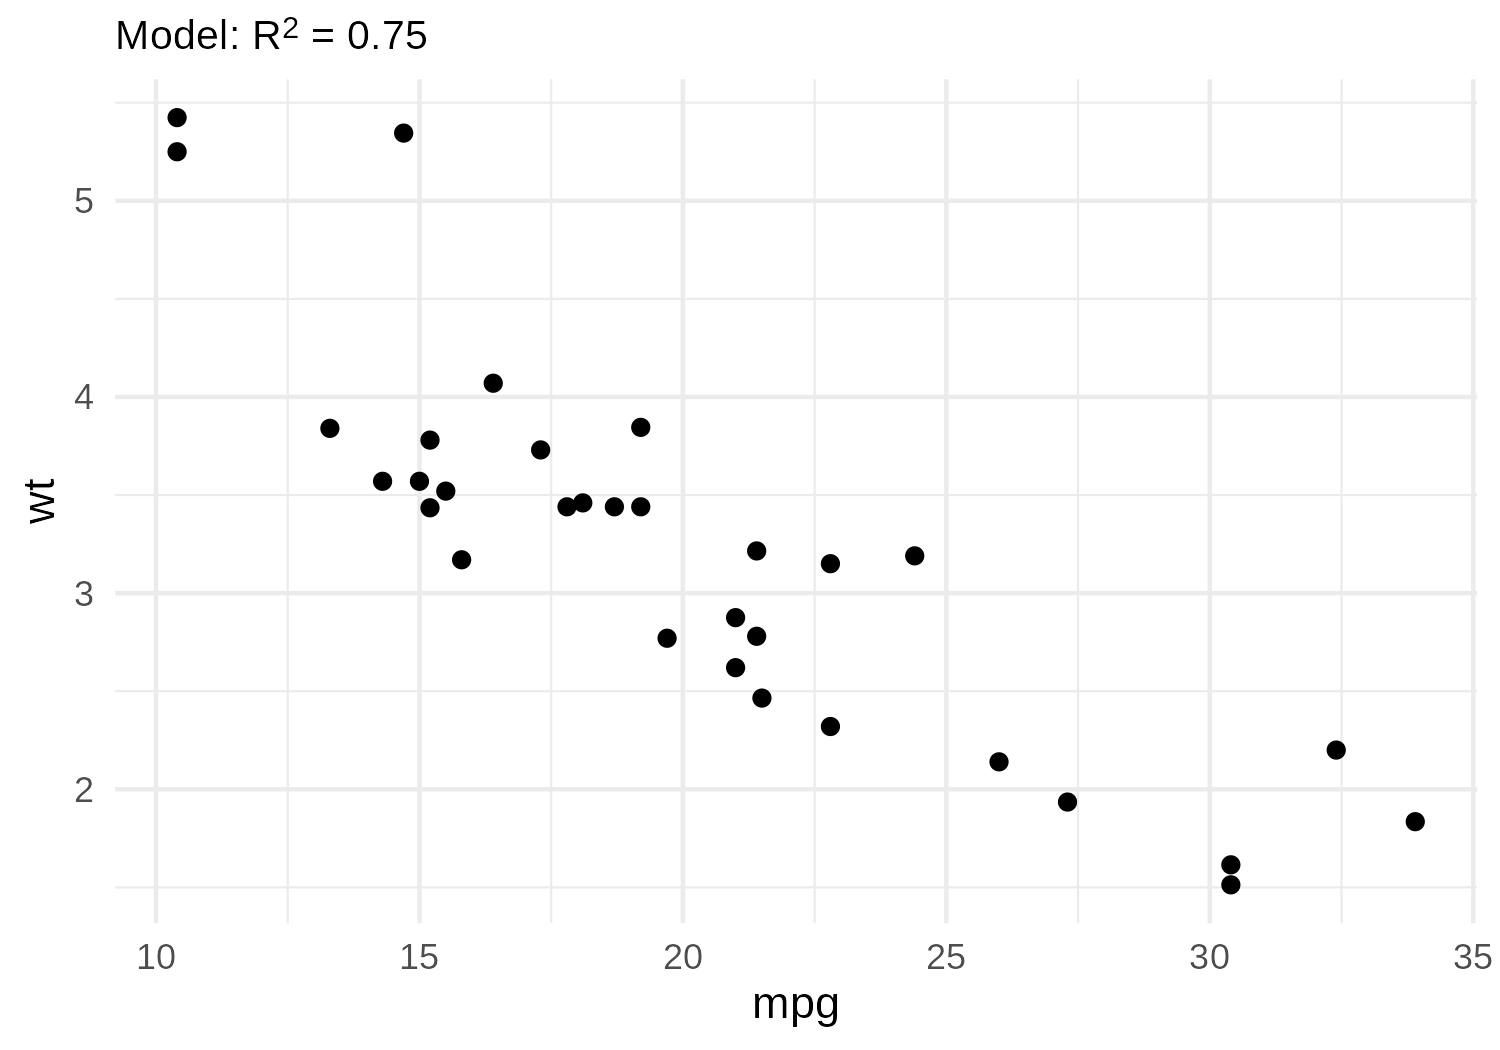
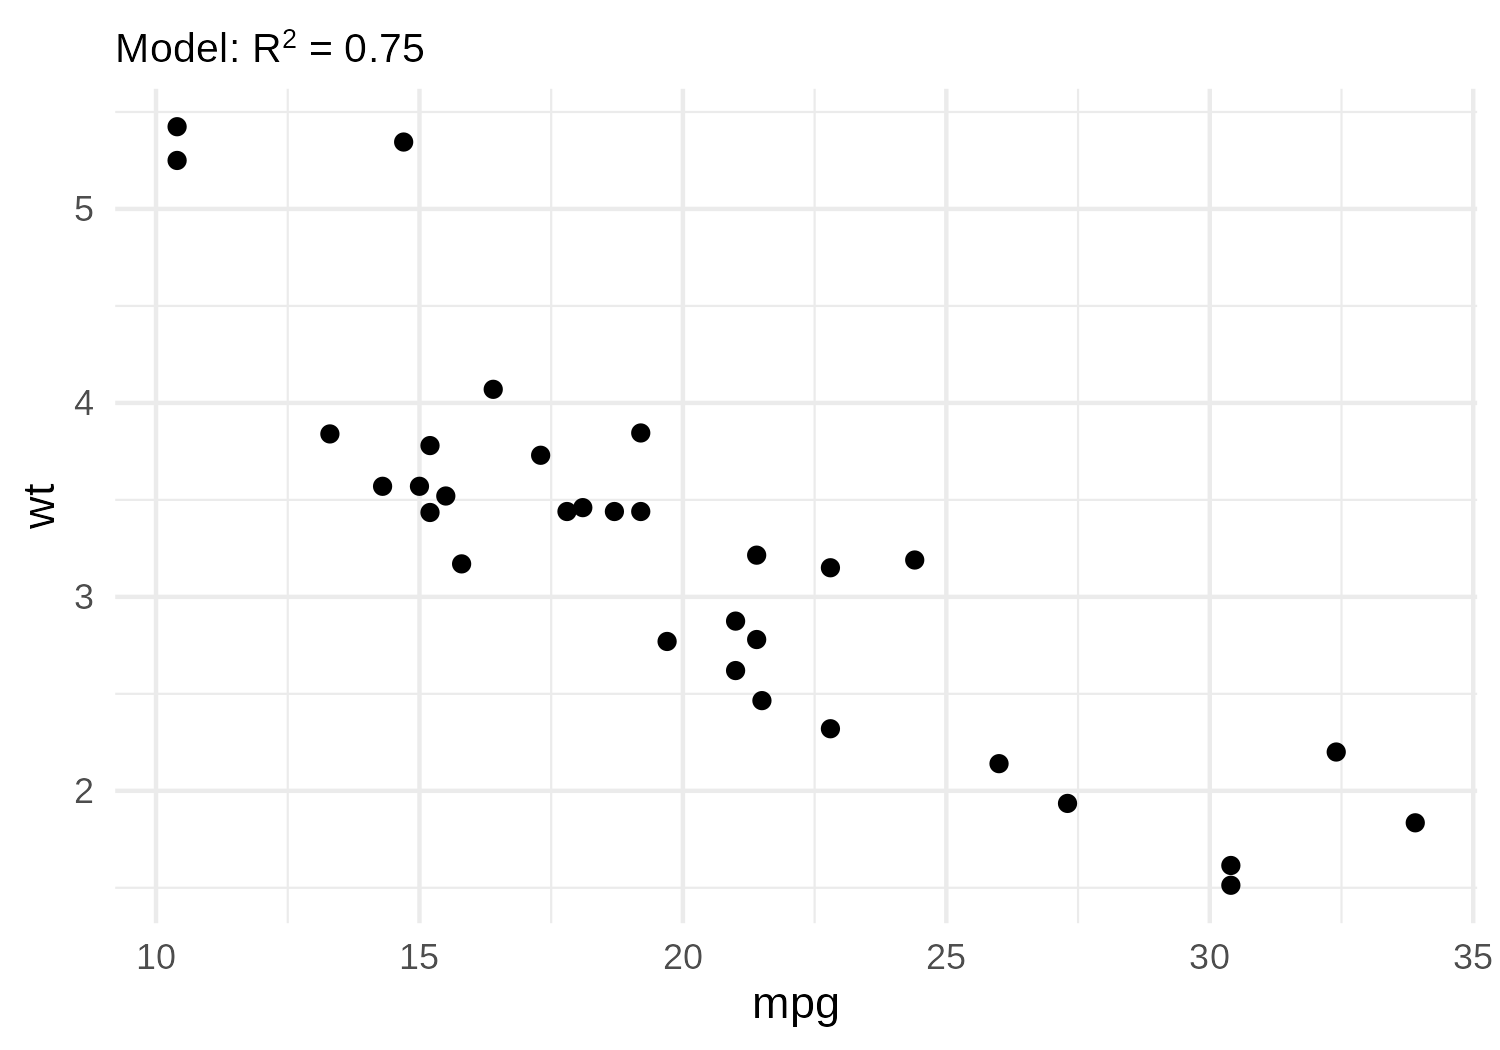
docs: size the images of the README in pixels
out.width = "100%" made each image as wide as the page: on CRAN, whose
page has no maximum width, the images filled the browser window. They
are now 96 pixels per inch of figure (672px for a 7 inches figure);
GitHub still shrinks wider images to its column. The figures are
rendered again with the current version.

diff --git a/README.md b/README.md
@@ -15,7 +15,7 @@ and ‘flextable’ tables.
 
 ‘munch’ lets you produce this annotated graphic:
 
-<img src="man/figures/README-unnamed-chunk-2-1.png" alt="" width="100%" />
+<img src="man/figures/README-unnamed-chunk-2-1.png" alt="" width="672px" />
 
 The title, subtitle, caption and axis labels above are all built with
 `element_chunks()` and ‘flextable’ paragraph objects, bold, italic,
@@ -70,7 +70,7 @@ ggplot(mtcars, aes(mpg, wt)) +
  theme(plot.title = element_md(size = 16))
 ```
 
-<img src="man/figures/README-ggplot-example-1.png" alt="" width="100%" />
+<img src="man/figures/README-ggplot-example-1.png" alt="" width="480px" />
 
 For advanced formatting (superscripts, subscripts, colors), use
 `element_chunks()` with ‘flextable’ paragraph objects:
@@ -85,7 +85,7 @@ ggplot(mtcars, aes(mpg, wt)) +
  theme(plot.title = element_chunks(title_chunks))
 ```
 
-<img src="man/figures/README-element-chunks-example-1.png" alt="" width="100%" />
+<img src="man/figures/README-element-chunks-example-1.png" alt="" width="480px" />
 
 #### Syntax comparison
 
@@ -136,7 +136,7 @@ wrap_plots(p1, p2) +
   )
 ```
 
-<img src="man/figures/README-patchwork-example-1.png" alt="" width="100%" />
+<img src="man/figures/README-patchwork-example-1.png" alt="" width="672px" />
 
 For plain markdown text, pass the content as a string and use
 `element_md()` in the `theme` argument, as in regular ggplot2 theming:
@@ -153,7 +153,7 @@ wrap_plots(p1, p2) +
   )
 ```
 
-<img src="man/figures/README-patchwork-example-md-1.png" alt="" width="100%" />
+<img src="man/figures/README-patchwork-example-md-1.png" alt="" width="672px" />
 
 The caption auto-wraps to the full figure width at render time, so it
 works correctly regardless of output size. `title`, `subtitle`, and
@@ -171,7 +171,7 @@ ft <- mk_par(ft, j = 1, part = "header",
 autofit(ft)
 ```
 
-<img src="man/figures/README-flextable-example-1.png" alt="" width="100%" />
+<img src="man/figures/README-flextable-example-1.png" alt="" width="480px" />
 
 ### Markdown to grob
 
@@ -184,7 +184,7 @@ grid.newpage()
 grid.draw(gr)
 ```
 
-<img src="man/figures/README-md-grob-basic-1.png" alt="" width="100%" />
+<img src="man/figures/README-md-grob-basic-1.png" alt="" width="480px" />
 
 For superscripts, subscripts, or colors not available in markdown, use
 ‘flextable’ chunks with `chunks_grob()`:
